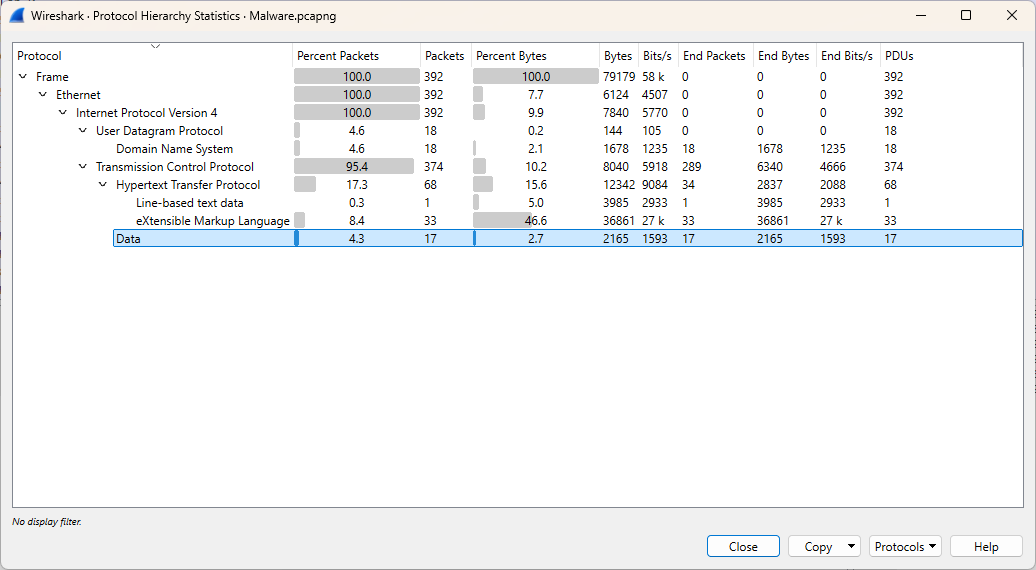
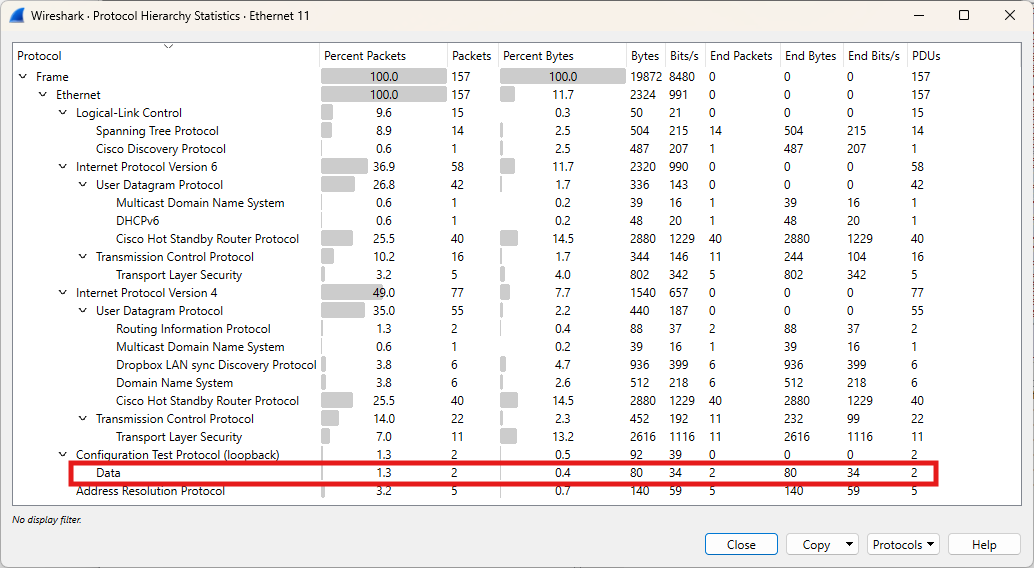
Data

diff --git a/docs/wireshark/README.md b/docs/wireshark/README.md
@@ -126,10 +126,6 @@ If you need to manually associate a port with a specific protocol, you can do so
 
 ![Success](./assets/pref_http.png)
 
-**Statistics → Protocol Hierarchy** lets you identify issues with assigning dissectors to specific network traffic. The "Data" section refers to network traffic for which no appropriate dissector was found.
-
-![Success](./assets/data.png)
-
 **2.5 Hands-on exercise**
 
 To effectively troubleshoot with a network analyzer (such as Wireshark), a deep understanding of the OSI model and its associated protocols is essential. The following exercise will assess the students' knowledge and skills, allowing us to identify any necessary refresher training.
@@ -538,7 +534,7 @@ Keep these tips in mind: choose eye-catching, unused color combinations, and alw
 
 **5.1 Who is communicating with whom?**
 
-The `Conversations window` provides a clear view of which hosts are communicating and the protocols they are using.   
+The **Conversations window** provides a clear view of which hosts are communicating and the protocols they are using.   
 It allows us to easily identify the top talkers, and by integrating GeoIP databases, we gain a clear overview of external traffic.   
 
 An exercise will be used to help clarify certain concepts.   
@@ -560,7 +556,7 @@ Wireshark can also utilize MaxMind GeoLite databases to map IPv4 and IPv6 addres
 More information about downloading these GeoLite databases can be found on the [following website](https://dev.maxmind.com/geoip/) .   
 
 Extract all files and place the files in a folder for example: C:\GeoIP.
-Then add some settings in WireShark. `Edit ‐ Preferences ‐ Name Resolution – MaxMind database directories ‐ Edit`.   
+Then add some settings in WireShark. `Edit → Preferences → Name Resolution → MaxMind database directories → Edit`.   
 
 ![Success](./assets/geoip.png)
 
@@ -574,13 +570,21 @@ Now select `Map` and get an overview of all external locations.
 
 **5.2 Summary of network protocols operating on your network.**
 
-To quickly gain insight into a network capture, using `Protocol Hierarchy Statistics` is a good starting point.   
-`Statistics – Protocol Hierarchy` reveals the full range of protocols and applications used in the captured network traffic.
+To quickly gain insight into a network capture, using **Protocol Hierarchy Statistics** is a good starting point.   
+`Statistics → Protocol Hierarchy` reveals the full range of protocols and applications used in the captured network traffic.
 
 The following file will be used: [tables.pcapng](https://www.tomcordemans.net/tables.pcapng) 
 
 ![Success](./assets/hierarchy.png)
 
+Sometimes, **Data** appears in the Protocol Hierarchy Statistics overview. Data usually means **Uninterpreted or Unknown Protocol**.  
+
+The most frequent causes are:   
+- The traffic is encapsulated in a protocol Wireshark can’t fully dissect.   
+- The traffic could be encrypted, proprietary, or non-standard.   
+- It might be a payload of a higher-level protocol that Wireshark doesn't decode by default.   
+
+![Success](./assets/data.png)
 
 
 
